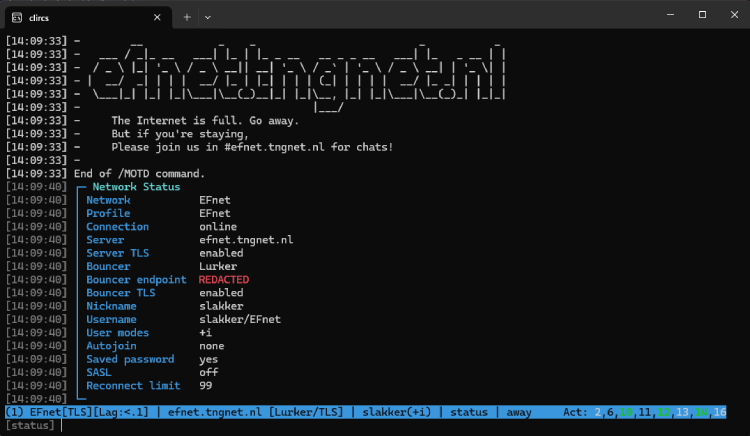
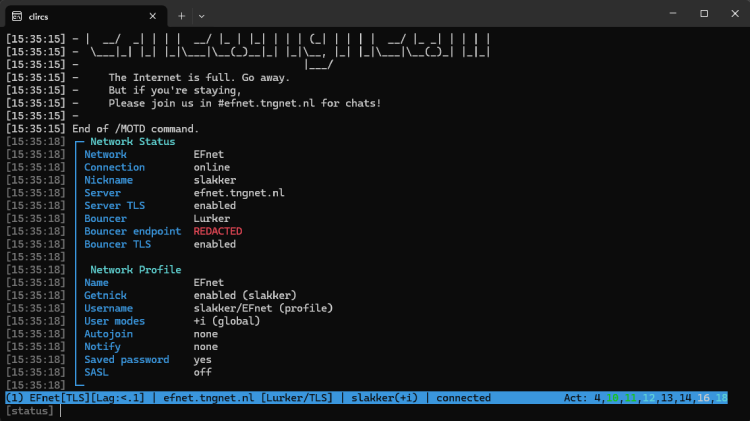
Prepare v0.9.2 release

Changed region(s): [[0.0, 0.0309, 0.9813, 0.9881], [0.184, 0.0309, 0.276, 0.0618], [0.92, 0.0309, 0.9507, 0.0618]]

diff --git a/README.md b/README.md
@@ -12,7 +12,7 @@ Additionally, while clircs does support some IRCv3 capabilities, it's not on boa
 
 ## Current Version
 
-Version 0.9.1 is a preview release, which includes typical (plus additional!) IRC commands, support for multiple networks, TLS, SASL, DCC (and SDCC), bouncer connectivity, channel management, flood protection, logging, and you can add your own scripts by way of Jint (JavaScript).
+Version 0.9.2 is a preview release, which includes typical (plus additional!) IRC commands, support for multiple networks, TLS, SASL, DCC (and SDCC), bouncer connectivity, channel management, flood protection, logging, and you can add your own scripts by way of Jint (JavaScript).
 
 ## Installing
 
@@ -20,10 +20,10 @@ clircs runs on 64-bit Windows 10 or 11. The packaged release comes as a ZIP in b
 
 ### Get the Packaged Release
 
-- **Self-contained (`clircs-v0.9.1-win-x64-self-contained.zip`):** The bigger download, with .NET 10 included. You don't have to install .NET separately, meaning this is the one to grab if you just want to run clircs.
-- **Framework-dependent (`clircs-v0.9.1-win-x64-framework-dependent.zip`):** The smaller download. It requires that you install (or have already installed) the [.NET 10 Runtime](https://dotnet.microsoft.com/en-us/download/dotnet/10.0) for Windows x64. You do not need the full Desktop Runtime or the SDK.
+- **Self-contained (`clircs-v0.9.2-win-x64-self-contained.zip`):** The bigger download, with .NET 10 included. You don't have to install .NET separately, meaning this is the one to grab if you just want to run clircs.
+- **Framework-dependent (`clircs-v0.9.2-win-x64-framework-dependent.zip`):** The smaller download. It requires that you install (or have already installed) the [.NET 10 Runtime](https://dotnet.microsoft.com/en-us/download/dotnet/10.0) for Windows x64. You do not need the full Desktop Runtime or the SDK.
 
-[Snag the ZIP](https://github.com/rekkals/clircs/releases/tag/v0.9.1) you need, extract its contents wherever you want, and run `clircs.exe`.
+[Snag the ZIP](https://github.com/rekkals/clircs/releases/tag/v0.9.2) you need, extract its contents wherever you want, and run `clircs.exe`.
 
 **HEADS UP:** Windows ShitScreen is probably going to complain about it being an unknown publisher. Just click More Info, then Run Anyway. Do NOT disable SmartScreen system-wide on your machine. If it doesn't let you Run Anyway, you can try building clircs from source instead.
 
@@ -31,7 +31,7 @@ clircs runs on 64-bit Windows 10 or 11. The packaged release comes as a ZIP in b
 
 First things first: grab the [.NET 10 SDK](https://dotnet.microsoft.com/en-us/download/dotnet/10.0).
 
-Then head over to the [0.9.1 release page](https://github.com/rekkals/clircs/releases/tag/v0.9.1), download **Source code (zip)**, and extract it. Open PowerShell in the extracted folder where `clircs.sln` is located and run:
+Then head over to the [0.9.2 release page](https://github.com/rekkals/clircs/releases/tag/v0.9.2), download **Source code (zip)**, and extract it. Open PowerShell in the extracted folder where `clircs.sln` is located and run:
 
 ```
 dotnet build clircs.sln -c Release

diff --git a/DOCUMENTATION.md b/DOCUMENTATION.md
@@ -4,7 +4,7 @@ Hey! This is the (much) longer reference. If all you want to do is get shit runn
 
 ## Installation
 
-clircs runs on 64-bit Windows 10 and 11. The v0.9.1 packaged release comes as a ZIP in two versions: one with .NET 10 included and one that uses the .NET 10 Runtime already installed on your computer. If you're building clircs from source, you'll need the SDK instead.
+clircs runs on 64-bit Windows 10 and 11. The v0.9.2 packaged release comes as a ZIP in two versions: one with .NET 10 included and one that uses the .NET 10 Runtime already installed on your computer. If you're building clircs from source, you'll need the SDK instead.
 
 ### Get the Precompiled Package
 
@@ -17,7 +17,7 @@ Extract all of the ZIP's contents wherever you want and run `clircs.exe`.
 
 That's it.
 
-There is no installer for v0.9.1. Extracting the ZIP **is** the installation.
+There is no installer for v0.9.2. Extracting the ZIP **is** the installation.
 
 Except for the part about Windows ShitScreen potentially whining about it being an unknown publisher. If it says that, click More Info, then Run Anyway. Also, it may refuse to run it at all. If it does, do not, under any circumstances, disable SmartScreen system-wide on your machine. Just build it from source ... and then hope Windows will let you run **that**.
 
@@ -25,7 +25,7 @@ Except for the part about Windows ShitScreen potentially whining about it being 
 
 Get the [.NET 10 SDK](https://dotnet.microsoft.com/en-us/download/dotnet/10.0) first. You can't just install the Runtime.
 
-Go to the [0.9.1 release page](https://github.com/rekkals/clircs/releases/tag/v0.9.1) and download **Source code (zip)**. Extract that, get the folder with `clircs.sln` open in PowerShell and run:
+Go to the [0.9.2 release page](https://github.com/rekkals/clircs/releases/tag/v0.9.2) and download **Source code (zip)**. Extract that, get the folder with `clircs.sln` open in PowerShell and run:
 
 ```
 dotnet build clircs.sln -c Release
@@ -81,7 +81,7 @@ Use `/network list` to show connections and their numbers. Use `/network` (or `/
 
 Names can match an advertised network name, a profile name, or a connection name. If a name matches multiple connections, use a connection number from `/network list`.
 
-Network Status shows connection details first, followed by Profile Settings when a profile is attached. A saved profile with no matching connection can also be inspected by name.
+Network Status shows connection details first, followed by Network Profile when a profile is attached. A saved profile with no matching connection can also be inspected by name.
 
 #### Adding and Configuring Profiles
 
